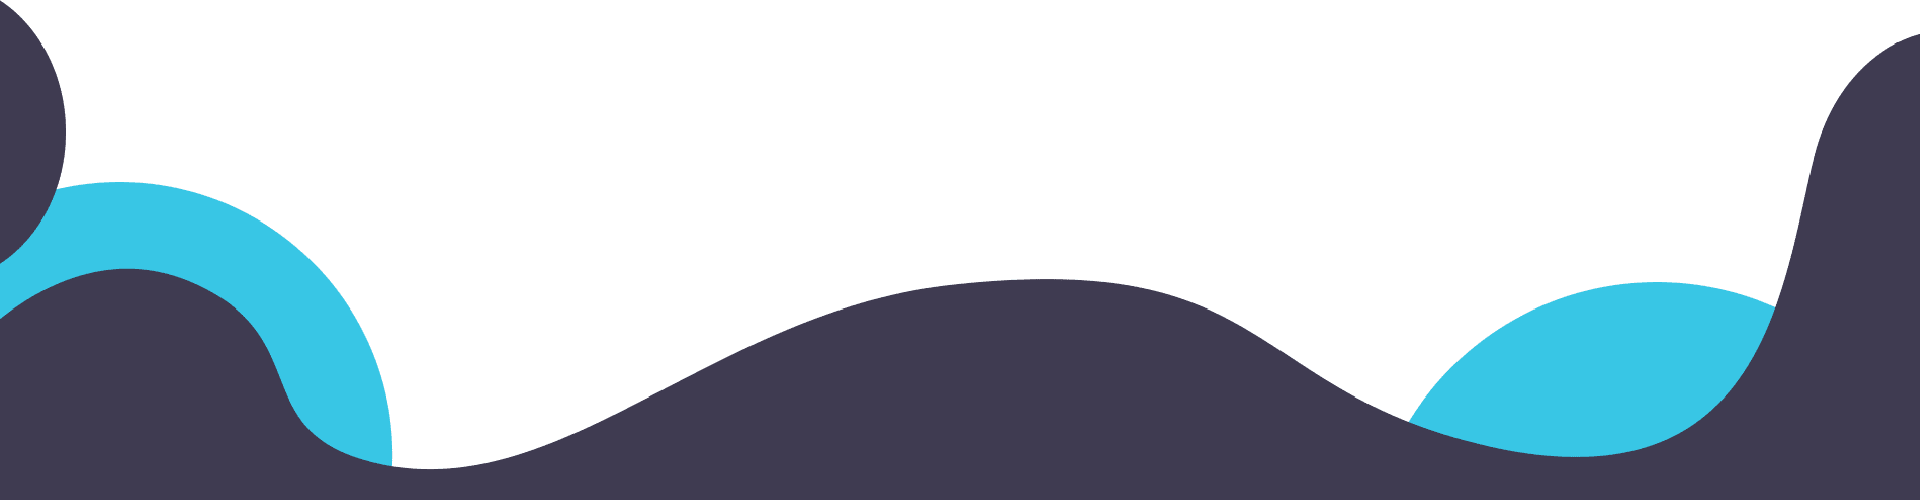
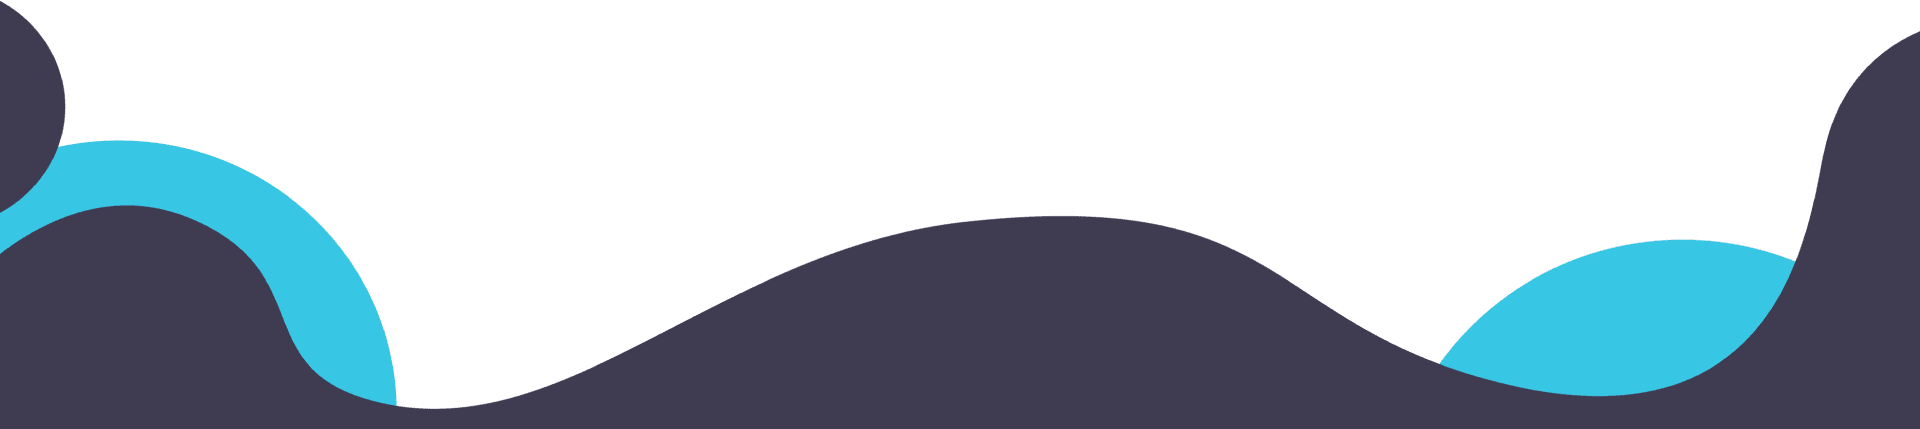
.

diff --git a/hero.scss b/hero.scss
@@ -195,7 +195,6 @@ main {
         position: relative;
         display: block;
         bottom: 0;
-        // margin-bottom: -5px;
     }
 
 }
@@ -212,7 +211,7 @@ main {
     }
 
     nav {
-        height: 250px;
+        height: 225px;
 
         .logo {
             background-image:
@@ -284,6 +283,7 @@ main {
     }
 
     #hero {
+        position: relative;
         width: auto;
         display: block;
         left: 35px;
@@ -300,11 +300,20 @@ main {
             padding: 10px;
             margin: 0 20px 0 0px;
         }
+
+        .hero-guy {
+            position: absolute;
+            background-image: url('./images/hero-guy.png');
+            background-size: 20vw 20vw;
+            width: 20vw;
+            height: 20vw;
+        }
     }
 
+
     .hero-blob {
-        background-image: url("/images/hero-blob-tablet.png");
-        height: 40vw;
+        background-image: url("/images/hero-blob.png");
+        height: 27vw;
     }
 
 }
@@ -463,11 +472,19 @@ main {
             z-index: 5;
         }
 
+        .hero-guy {
+            background-image: url('./images/hero-guy.png');
+            background-size: 20vw 20vw;
+            display: block;
+            width: 20vw;
+            height: 20vw;
+            position: absolute;
+        }
+
     }
 
     .hero-blob {
-        position: relative;
-        height: auto;
+        background-image: url("/images/hero-blob.png");
 
     }
 

diff --git a/hero.css b/hero.css
@@ -175,7 +175,7 @@ main {
     height: auto;
   }
   nav {
-    height: 250px;
+    height: 225px;
   }
   nav .logo {
     background-image: url("./images/logo-index.png");
@@ -233,6 +233,7 @@ main {
     top: -2px;
   }
   #hero {
+    position: relative;
     width: auto;
     display: block;
     left: 35px;
@@ -247,9 +248,16 @@ main {
     padding: 10px;
     margin: 0 20px 0 0px;
   }
+  #hero .hero-guy {
+    position: absolute;
+    background-image: url("./images/hero-guy.png");
+    background-size: 20vw 20vw;
+    width: 20vw;
+    height: 20vw;
+  }
   .hero-blob {
-    background-image: url("/images/hero-blob-tablet.png");
-    height: 40vw;
+    background-image: url("/images/hero-blob.png");
+    height: 27vw;
   }
 }
 @media only screen and (min-width: 1300px) {
@@ -371,9 +379,16 @@ main {
     margin-left: -13px;
     z-index: 5;
   }
+  #hero .hero-guy {
+    background-image: url("./images/hero-guy.png");
+    background-size: 20vw 20vw;
+    display: block;
+    width: 20vw;
+    height: 20vw;
+    position: absolute;
+  }
   .hero-blob {
-    position: relative;
-    height: auto;
+    background-image: url("/images/hero-blob.png");
   }
   #mobile-menu-open,
   #mobile-menu-close {

diff --git a/index.html b/index.html
@@ -110,7 +110,7 @@
                 <a class="btn" href="./services/services.html">Services</a>
             </div>
 
-            <img class="hero-guy" src="./images/hero-guy.png" alt="Guy with a laptop">
+            <div class="hero-guy"></div>
 
         </div>
 
